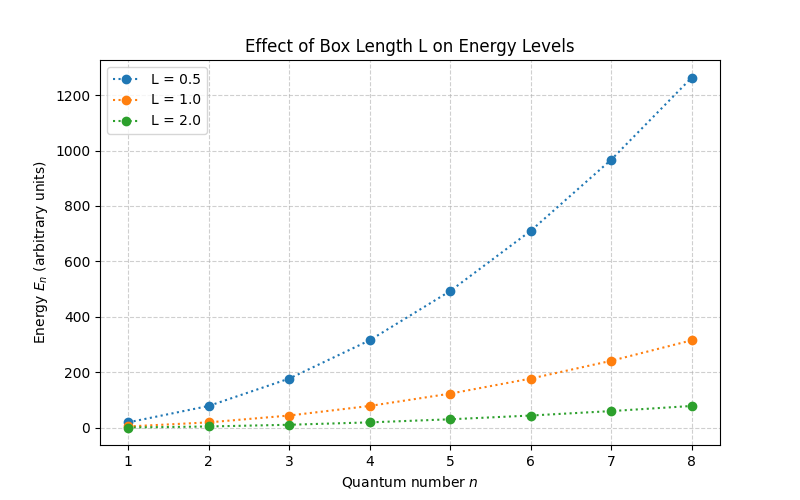
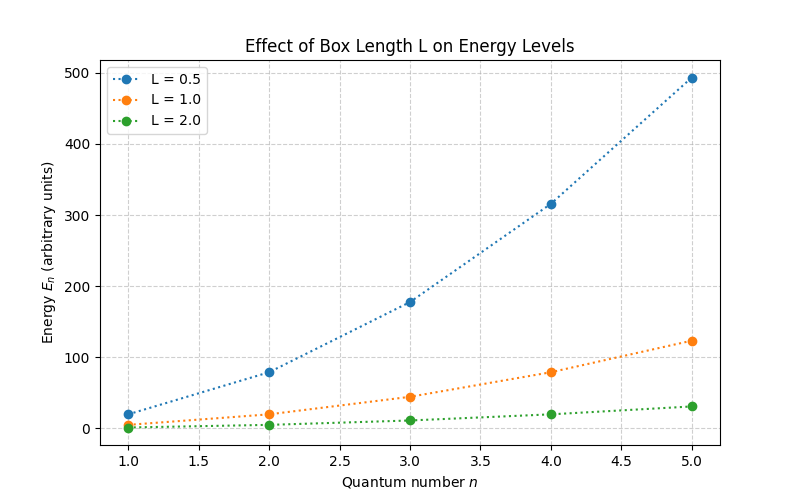
Updated README with professional formatting and modified Python file

diff --git a/Particle_in_a_Box.py b/Particle_in_a_Box.py
@@ -1,0 +1,112 @@
+#!/usr/bin/env python
+# coding: utf-8
+
+# In[16]:
+
+
+import numpy as np
+import matplotlib.pyplot as plt
+import os
+os.makedirs("plots", exist_ok=True)
+L = 1
+m = 1
+hbar = 1
+n_max = 5
+n_values = list(range(1, n_max+1))      
+x = np.linspace(0, L, 1000)
+
+# Defining Energy and Psi functions
+
+def energy(n, L=L, m=m, hbar=hbar):
+    return (n**2*np.pi**2*hbar**2)/(2*m*L**2)
+energies = [energy(n) for n in n_values]
+def psi(n, x, L=L):
+    return np.sqrt(2/L) * np.sin(n*np.pi*x/L)
+
+# Plotting Energy Levels
+
+def plot_energy_levels(n_values, energies):
+    plt.figure(figsize = (8,5))
+    plt.plot(n_values, energies, marker = 'o', linestyle = ':')
+    plt.xlabel('Quantum number  $n$')
+    plt.ylabel('Energy $E_n$ (arbitrary units)')
+    plt.title('Energy Levels of a Particle in a 1D Infinite Potential Well')
+    plt.grid(True, linestyle="--", alpha=0.6)
+    plt.savefig('plots/energy_levels.png')
+    plt.show()
+
+# Plotting Wavefunctions
+
+def plot_wavefunctions(n_values, x):
+    plt.figure(figsize = (8,5))
+    for n in n_values:
+        plt.plot(x, psi(n, x), label=f"$n={n}$")
+    plt.xlabel("Position $x$ (arbitrary units)")
+    plt.ylabel("Wavefunction $\\psi_n(x)$")
+    plt.title("Wavefunctions of a Particle in a 1D Infinite Potential Well")
+    plt.legend()
+    plt.grid(True, linestyle="--", alpha=0.6)
+    plt.savefig('plots/wavefunctions.png')
+    plt.show()
+
+# Plotting Probability Density
+
+def plot_probability_density(n_values, x):
+    plt.figure(figsize=(8,5))
+    for n in n_values:
+        prob_density = psi(n, x)**2
+        plt.plot(x, prob_density, label=f"$n={n}$")
+    plt.xlabel("Position $x$ (arbitrary units)")
+    plt.ylabel("Probability Density $|\psi_n(x)|^2$")
+    plt.title("Probability Densities of a Particle in a 1D Infinite Potential Well")
+    plt.legend()
+    plt.grid(True, linestyle="--", alpha=0.6)
+    plt.savefig('plots/prob_density.png')
+    plt.show()
+plot_energy_levels(n_values, energies)
+plot_wavefunctions(n_values, x)
+plot_probability_density(n_values, x)
+
+# Plotting effect of changing box length L
+
+L_values = [0.5, 1.0, 2.0]
+plt.figure(figsize=(8,5))
+for L_new in L_values:
+    energies_L = [energy(n, L=L_new, m=m) for n in n_values]
+    plt.plot(n_values, energies_L, marker='o', linestyle=':', label=f"L = {L_new}")
+plt.xlabel("Quantum number $n$")
+plt.ylabel("Energy $E_n$ (arbitrary units)")
+plt.title("Effect of Box Length L on Energy Levels")
+plt.legend()
+plt.grid(True, linestyle="--", alpha=0.6)
+plt.savefig("plots/effect_L.png")
+plt.show()
+
+# Plotting effect of changing mass m
+
+m_values = [0.5, 1.0, 2.0]
+plt.figure(figsize=(8,5))
+for m_new in m_values:
+    energies_m = [energy(n, L=L, m=m_new) for n in n_values]
+    plt.plot(n_values, energies_m, marker='o', linestyle=':', label=f"m = {m_new}")
+plt.xlabel("Quantum number $n$")
+plt.ylabel("Energy $E_n$ (arbitrary units)")
+plt.title("Effect of Particle Mass m on Energy Levels")
+plt.legend()
+plt.grid(True, linestyle="--", alpha=0.6)
+plt.savefig("plots/effect_m.png")
+plt.show()
+
+# Check normalization
+
+print('Normalization check(should be 1):')
+for n in range(1, n_max + 1):
+    norm = np.trapezoid(psi(n, x)**2, x)
+    print(f'n = {n}, ∫|ψ_n(x)|^2 dx = {norm:.6f}')
+
+
+# In[ ]:
+
+
+
+

diff --git a/README.md b/README.md
@@ -1,22 +1,37 @@
 # Particle in a Box Simulation
 
-A Python simulation of a quantum particle confined in a one-dimensional infinite potential well ("particle in a box").  
-This project computes the energy levels, wavefunctions, and probability densities of a particle for different quantum numbers, and visualizes the effects of varying the box length and particle mass.
+A Python simulation of a **quantum particle confined in a one-dimensional infinite potential well** (“particle in a box”).  
+
+This project **computes energy levels, wavefunctions, and probability densities** for different quantum numbers, and visualizes the effects of **box length (L)** and **particle mass (m)**.
+
+---
 
 ## Motivation
 
-This project demonstrates fundamental concepts of quantum mechanics, including quantized energy levels, wavefunctions, and probability densities.  
-It provides a computational and visual understanding of how a particle behaves in a confined space.
+Quantum mechanics introduces **quantized energy levels** and **wavefunctions** for particles in confined spaces.  
+
+This simulation provides a **computational and visual approach** to understanding:
+
+- Energy quantization  
+- Wavefunctions ψₙ(x)  
+- Probability densities |ψₙ(x)|²  
+- The effect of **box length** and **particle mass** on energy levels  
+
+This project aims to make **abstract quantum concepts visual and intuitive**.
+
+---
 
 ## Features
 
-- Compute energy levels for multiple quantum numbers.
-- Calculate wavefunctions ψ_n(x) for each quantum number.
-- Plot probability density |ψ_n(x)|².
-- Check normalization of wavefunctions.
-- Analyze the effect of changing box length L on energy levels.
-- Analyze the effect of changing particle mass m on energy levels.
-- Fully visualized results using Matplotlib.
+- Compute **energy levels** for multiple quantum numbers  
+- Generate **wavefunctions** ψₙ(x)  
+- Plot **probability densities** |ψₙ(x)|²  
+- Verify **normalization** of wavefunctions  
+- Analyze the effect of **box length (L)** and **particle mass (m)**  
+- Modular and reusable **Python code**  
+- High-quality visualizations using **Matplotlib**
+
+---
 
 ## Requirements
 
@@ -24,30 +39,43 @@ It provides a computational and visual understanding of how a particle behaves i
 - NumPy  
 - Matplotlib  
 
-## Installation
+Install dependencies with:
 
-1. Clone the repository or download the project folder.  
-2. Install the required dependencies:  
-   ```bash
-   pip install numpy matplotlib
-   ```
+```bash
+pip install numpy matplotlib
+```
+
+---
 
 ## Usage
 
-1. Open the project folder:  
-   ```
-   C:\Users\Zohaib Hassan\Downloads\Projects\Particle Box\
-   ```
-2. Run the script:
-   ```bash
-   python "C:\Users\Zohaib Hassan\Downloads\Projects\Particle Box\particle_in_box.py"
-   ```
-3. Modify parameters inside the script if needed:
-   - `L` : Length of the box
-   - `m` : Particle mass
-   - `n_max` : Maximum quantum number
+1. Clone the repository:
 
-## Results
+```bash
+git clone <your-repo-link>
+```
+
+2. Navigate to the project folder:
+
+```bash
+cd Particle_in_a_Box
+```
+
+3. Run the simulation:
+
+```bash
+python Particle_in_a_Box.py
+```
+
+4. Optional: Modify parameters directly in the script:  
+
+- `L` : Length of the box  
+- `m` : Particle mass  
+- `n_max` : Maximum quantum number  
+
+---
+
+## Outputs
 
 ### Energy Levels
 ![Energy Levels](plots/energy_levels.png)
@@ -56,10 +84,30 @@ It provides a computational and visual understanding of how a particle behaves i
 ![Wavefunctions](plots/wavefunctions.png)
 
 ### Probability Densities
-![Probability Densities](plots/plots/prob_density.png)
+![Probability Densities](plots/prob_density.png)
 
 ### Effect of Box Length L
 ![Box Length Effect](plots/effect_L.png)
 
 ### Effect of Particle Mass m
 ![Mass Effect](plots/effect_m.png)
+
+---
+
+## Normalization Check
+
+The integral of |ψₙ(x)|² over the box should equal 1:
+
+```
+Normalization check (should be 1):
+n = 1, ∫|ψ_n(x)|^2 dx = 1.000000
+n = 2, ∫|ψ_n(x)|^2 dx = 1.000000
+...
+```
+
+---
+
+## References
+
+1. Griffiths, D. J., *Introduction to Quantum Mechanics*, 2nd Edition  
+2. Python documentation: [NumPy](https://numpy.org), [Matplotlib](https://matplotlib.org)  
